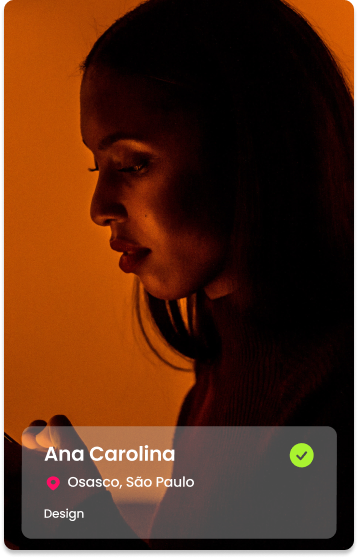
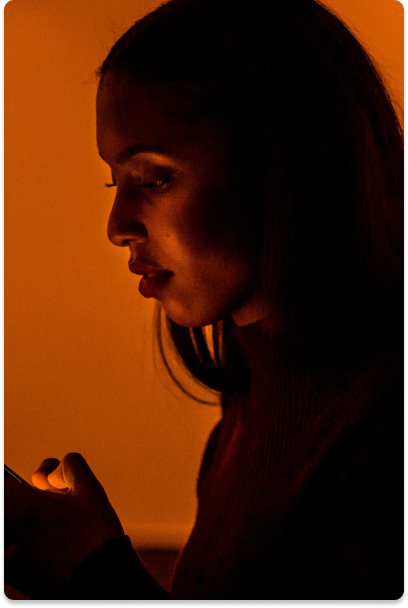
feat: adding cards

diff --git a/front/src/components/Banner/BannerMain/BannerMain.jsx b/front/src/components/Banner/BannerMain/BannerMain.jsx
@@ -1,4 +1,5 @@
 import Button from '../../Buttons/Button';
+import CardBanner from '../../Cards/CardsBanner/CardBanner';
 import CardInfo from '../../Cards/CardsBanner/CardInfo/CardInfo';
 import Text from '../../Text/Text';
 import Title from '../../Title/Title';
@@ -16,12 +17,12 @@ const BannerMain = () => {
                 <Text 
                 upperCase={false} 
                 text="A Nexum conecta pessoas que buscam crescer no mercado e freelancers que desejam ser vistos pelas suas habilidades"
-                /><div className={styles.buttons}>
+                /><div>
                  <Text 
                 upperCase={true} 
                 text="crie agora mesmo a sua conta"
                 />
-                
+                <div className={styles.buttons}>
                 <Button 
                 isPink={true} 
                 text="Freelancer"/>
@@ -29,16 +30,9 @@ const BannerMain = () => {
                 isPink={false} 
                 text="Contratante"/>
                 </div>
+                </div>
             </div>
-            <div className={styles.card}>
-                <div className={styles.teste}>
-           <CardInfo/>
-           <CardInfo/>
-           <CardInfo/>
-           <CardInfo/>
-           <CardInfo/>
-           </div>
-           </div>
+        <CardBanner/>
         </Banner>
     )
 }

diff --git a/front/src/components/Cards/CardsBanner/Constants.jsx b/front/src/components/Cards/CardsBanner/Constants.jsx
@@ -1,3 +1,40 @@
 // todos os items que terão no menu
 
-export const ITEMS = []
+export const DATA = [
+  {
+    id: 1,
+    name: 'Ana Carolina',
+    location: 'Osasco, São Paulo',
+    profession: 'Design'
+  },
+  {
+    id: 2,
+    name: 'Drodo Baggins',
+    location: 'São Paulo, São Paulo',
+    profession: 'Desenvolvedor de Software'
+  },
+  {
+    id: 3,
+    name: 'Bruno Machado',
+    location: 'Vila Mariana, São Paulo',
+    profession: 'Marketing'
+  },
+  {
+    id: 1,
+    name: 'Ana Carolina',
+    location: 'Osasco, São Paulo',
+    profession: 'Design'
+  },
+  {
+    id: 2,
+    name: 'Drodo Baggins',
+    location: 'São Paulo, São Paulo',
+    profession: 'Desenvolvedor de Software'
+  },
+  {
+    id: 3,
+    name: 'Bruno Machado',
+    location: 'Vila Mariana, São Paulo',
+    profession: 'Marketing'
+  },
+]

diff --git a/front/src/components/Cards/CardsBanner/CardBanner.jsx b/front/src/components/Cards/CardsBanner/CardBanner.jsx
@@ -1,0 +1,24 @@
+import styles from './styles.module.scss'
+import { DATA } from './Constants'
+import CardInfo from './CardInfo/CardInfo'
+
+const CardBanner = () => {
+    return( 
+        <div className={styles.container}>
+        <div className={styles.card__animation}>
+        {DATA.map(({id, name, location, profession}) => ( 
+            <div className={styles.card}>
+                <img src={`../../../../assets/imgs/person-card-${id}.png`} alt={name}/>
+                <CardInfo 
+                name={name} 
+                location={location} 
+                profession={profession}
+                />
+            </div>
+        ))}
+           </div>
+           </div>
+    )
+}
+
+export default CardBanner;

diff --git a/front/src/components/Cards/CardsBanner/CardInfo/styles.module.scss b/front/src/components/Cards/CardsBanner/CardInfo/styles.module.scss
@@ -1,7 +1,29 @@
-.card {
-    background-color: gray;
-    width: 350px;
-    height: 550px;
-    margin: 10px 0;
-    border: 2px solid red;
+@import '../../../../styles/variables.scss';
+
+.card { 
+  background-color: rgba(255,255,255,0.3);
+  color: $white;
+  position: absolute;
+  bottom: 10px;
+  left: 40px;
+  width: 65%;
+  padding: 20px 30px;
+  font-size: $--text;
+  border-radius: $--border__cards;
+  display: flex;
+  flex-direction: column;
+
+  img {
+    width: 8%;
+    height: 8%;
+  }
+}
+
+.container { 
+  display: flex;
+  justify-content: space-between;
+}
+
+.container__location { 
+  display: flex;
 }

diff --git a/front/src/components/Cards/CardsBanner/CardInfo/CardInfo.jsx b/front/src/components/Cards/CardsBanner/CardInfo/CardInfo.jsx
@@ -1,8 +1,17 @@
 import styles from './styles.module.scss'
 
-const CardInfo = () => {
+const CardInfo = ({name, location, profession}) => {
     return( 
         <div className={styles.card}>
+            <div className={styles.container}>
+            <h4>{name}</h4>
+            <img src='../../../../../assets/icons/available.png' alt="available"/>
+            </div>
+            <div className={styles.container__location}>
+            <img src='../../../../../assets/icons/location.png' alt="localização"/>
+            <p>{location}</p>
+            </div>
+            <p>{profession}</p>
         </div>
     )
 }

diff --git a/front/src/components/Cards/CardsBanner/styles.module.scss b/front/src/components/Cards/CardsBanner/styles.module.scss
@@ -1,5 +1,33 @@
-.card {
-    background-color: gray;
-    width: 350px;
-    height: 550px;
+@import '../../../styles/variables.scss';
+
+.wrapper {
+  display: block;
 }
+.container { 
+  height: 90vh;
+  overflow: hidden;
+}
+
+.card {
+  overflow: hidden;
+  position: relative;
+  border-radius: $--border__images;
+  img {
+    border-radius: $--border__images;
+  }
+}
+
+.card__animation {
+    animation: animate 40s linear infinite;
+
+    
+      @keyframes animate {
+        0% {
+          transform: translateY(45%);
+        }
+        100% {
+          transform: translateY(-50%);
+        }
+      }
+    }
+  

diff --git a/front/src/styles/variables.scss b/front/src/styles/variables.scss
@@ -1,4 +1,6 @@
-@import url('https://fonts.googleapis.com/css2?family=Montserrat:wght@700&display=swap');
+
+@import url('https://fonts.googleapis.com/css2?family=DM+Sans&family=Montserrat:wght@700&display=swap');
+
 //colors
 $black: #000;
 $white: #fff;
@@ -20,6 +22,8 @@ $--width__button: 300px;
 
 //border
 $--border__buttons: 50px;
+$--border__images: 20px;
+$--border__cards: 10px;
 
 //padding
 $--padding__buttons: 1%;
@@ -31,3 +35,4 @@ $desktop: 1280px;
 
 //fonts
 $--title__font: 'Montserrat', sans-serif;
+$--text__font: 'Montserrat', sans-serif;

diff --git a/front/src/components/Banner/BannerMain/styles.module.scss b/front/src/components/Banner/BannerMain/styles.module.scss
@@ -1,26 +1,15 @@
-
-.card {
-  overflow: hidden;
-  height: 90vh;
-  border: 2px solid red;
-}
-
-.teste {
-animation: testando 10s linear infinite;
-
-  @keyframes testando {
-    100% {
-      transform: translateY(calc(-500px * 4));
-    }
-    
-  }
-}
-
 .container {
   width: 50%;
   display: flex;
   flex-direction: column;
   justify-content: space-between;
   height: 350px;
+}
+
+.buttons {
+  display: flex;
+  justify-content: space-between;
+  width: 85%;
+  margin-top: 10px;
 }
 

diff --git a/front/src/components/Text/Text.jsx b/front/src/components/Text/Text.jsx
@@ -1,11 +1,6 @@
-import { useState } from 'react';
 import styles from './styles.module.scss'
 
 const Text = ({text, upperCase}) => {
-
-    const [words, setWords] = useState(text);
-    const [color, setColor] = useState('#fff');
-
 
     return( 
         <p className={upperCase ? styles.upperCase : styles.text}>

diff --git a/front/src/components/Buttons/styles.module.scss b/front/src/components/Buttons/styles.module.scss
@@ -9,6 +9,10 @@
     padding: $--padding__buttons;
     color: $white;
     cursor: pointer;
+
+    &:hover {
+        @extend .buttonFillBackground;
+    }
 }
 
 

diff --git a/front/src/components/Text/styles.module.scss b/front/src/components/Text/styles.module.scss
@@ -3,6 +3,7 @@
 .text {
 color: $white;
 font-size: $--subtitle;
+font-family: $--text__font;
 }
 
 .upperCase {
